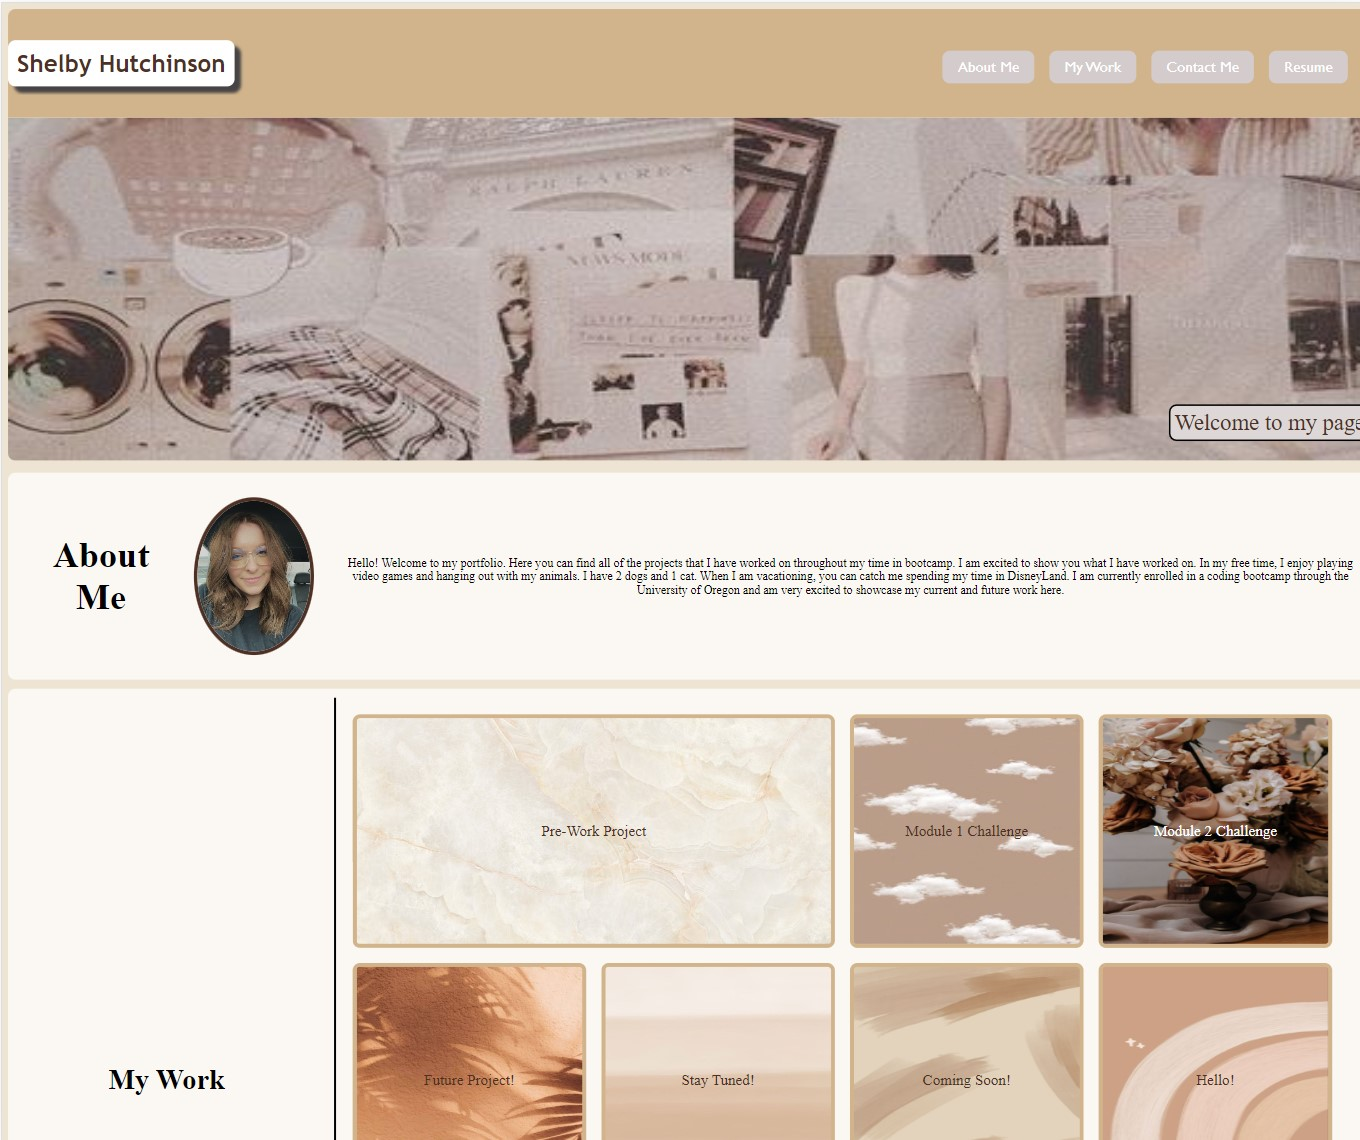
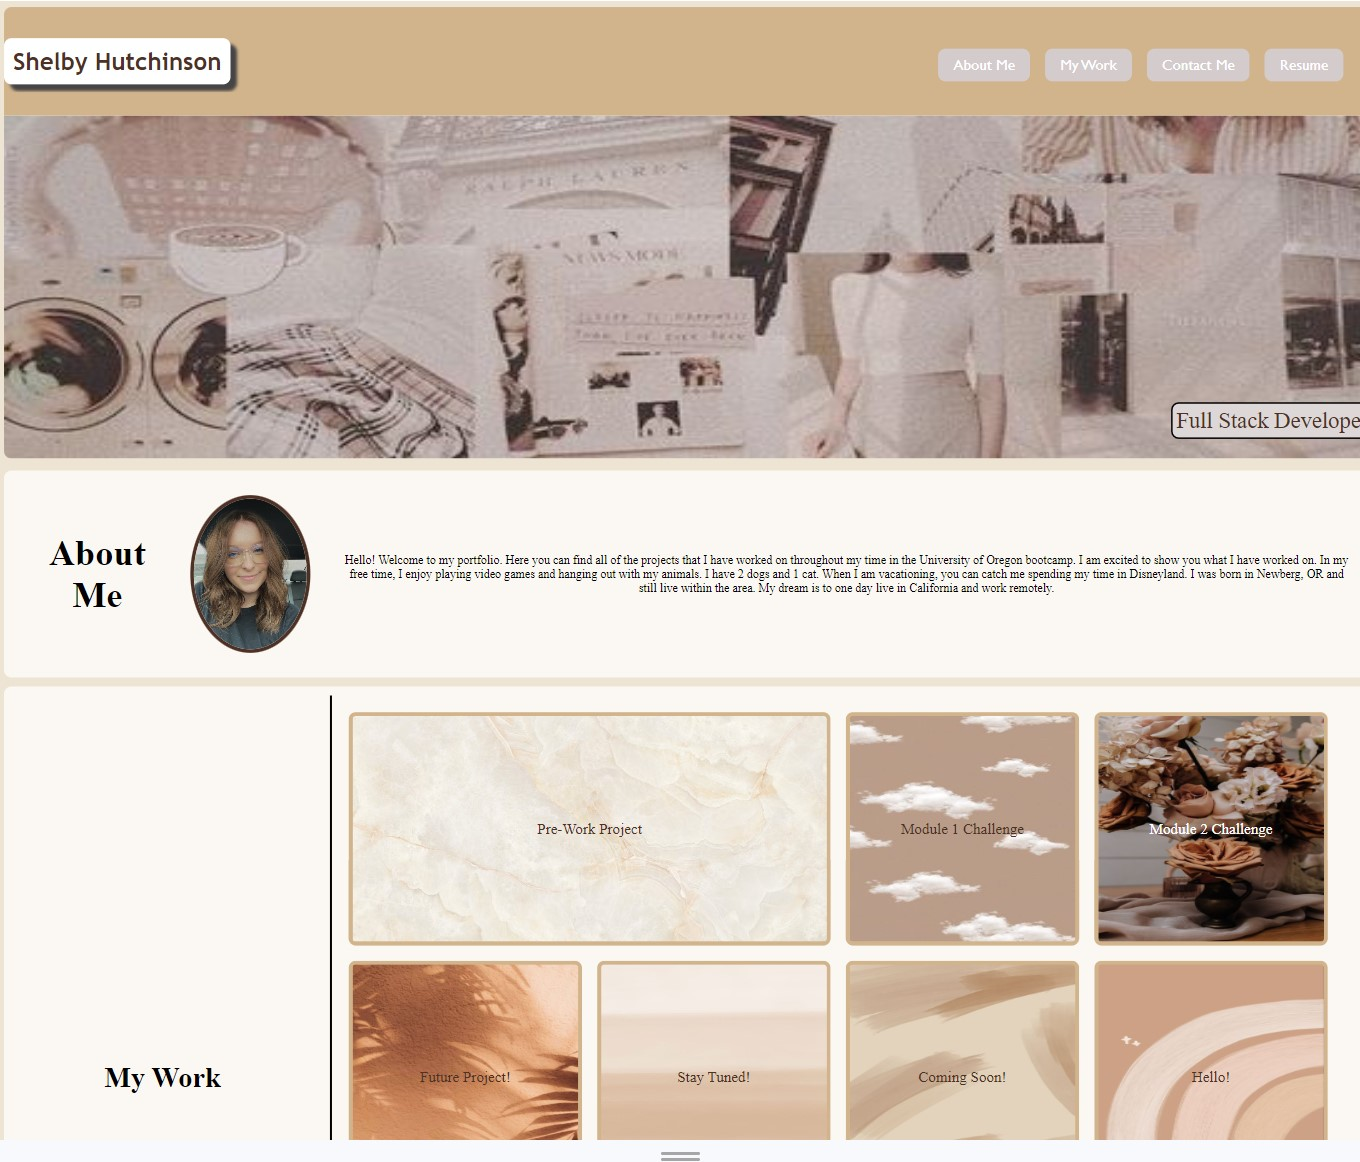
replaced screenshot and updated about me section

diff --git a/index.html b/index.html
@@ -46,8 +46,8 @@
             <div class="flex-container">
                 <img src="assets/images/PersonalPhoto.jpeg" alt="Personal Photo">
                 <p>
-                    Hello! Welcome to my portfolio. Here you can find all of the projects that I have worked on throughout my time in bootcamp. I am excited to show you what I have worked on. In my free time, I enjoy playing video games and hanging out with my animals. I have 2 dogs and 1 cat. When I am vacationing, you can catch me spending my time in DisneyLand.
-                    I am currently enrolled in a coding bootcamp through the University of Oregon and am very excited to showcase my current and future work here.
+                    Hello! Welcome to my portfolio. Here you can find all of the projects that I have worked on throughout my time in the University of Oregon bootcamp. I am excited to show you what I have worked on. In my free time, I enjoy playing video games and hanging out with my animals. I have 2 dogs and 1 cat. When I am vacationing, you can catch me spending my time in Disneyland.
+                    I was born in Newberg, OR and still live within the area. My dream is to one day live in California and work remotely. 
                 </p>
             </div>
         </section>
